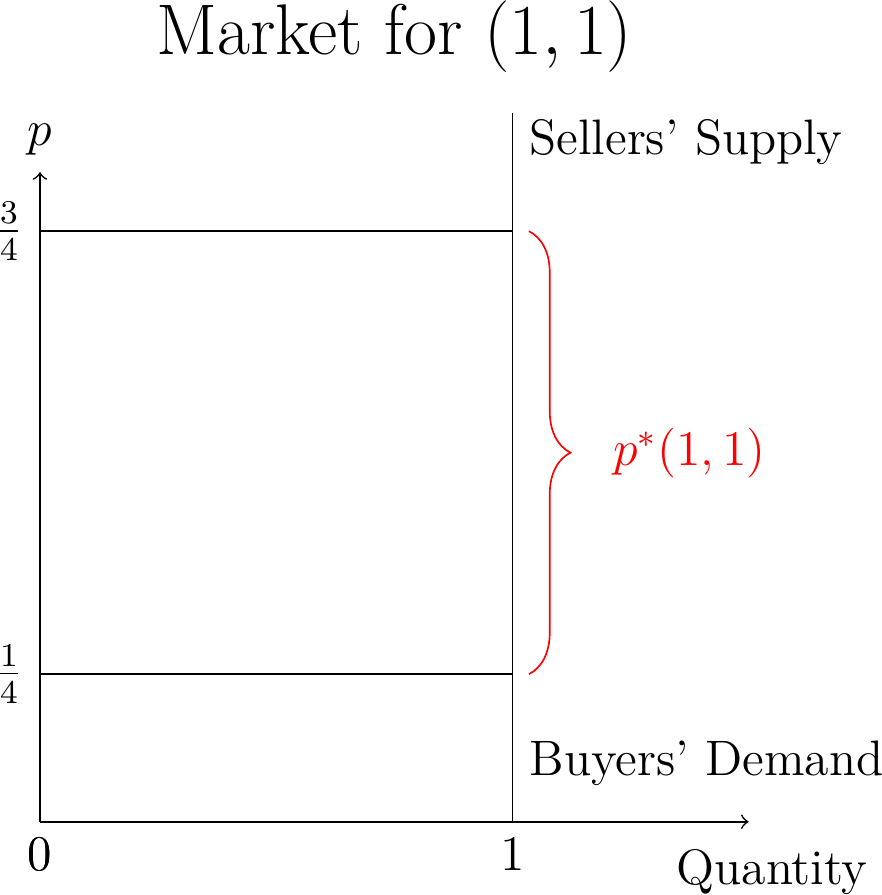
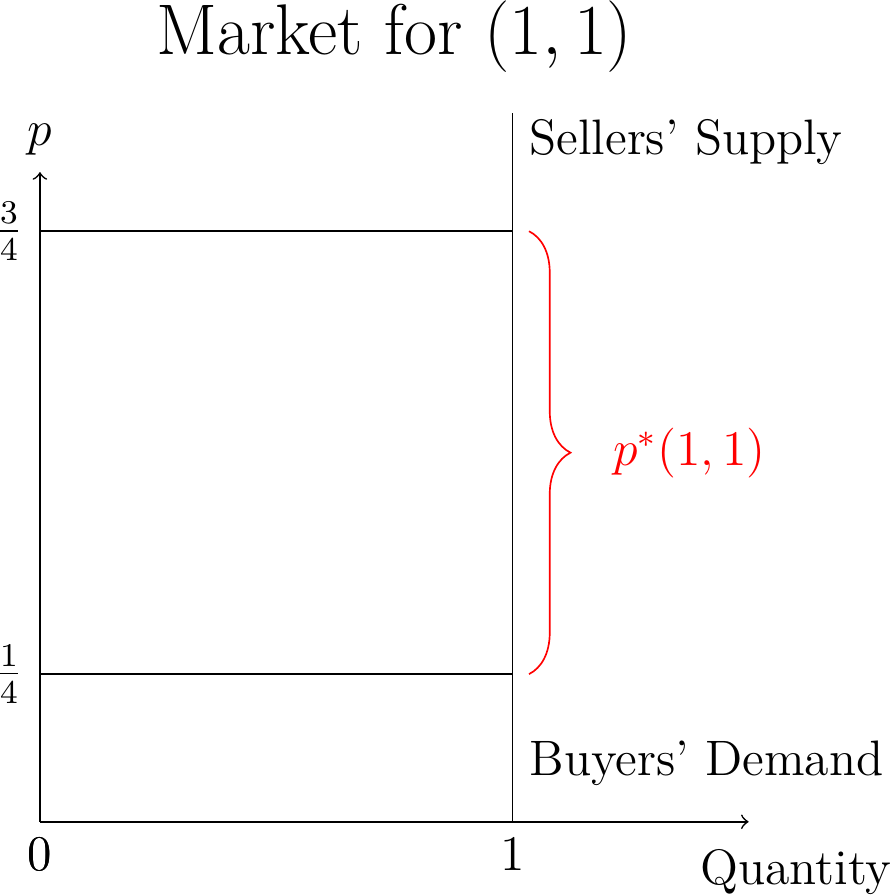
image adjust

diff --git a/docs/slides/tikz_charts/jmp.tex b/docs/slides/tikz_charts/jmp.tex
@@ -364,7 +364,7 @@ $ $
 	
 	\draw [->] (0,0) node [below] {0} -- (0,0) -- (6,0);
 	
-	\node [below] at (6.2,-.1) {Quantity};
+	\node [below] at (6.4,-.1) {Quantity};
 	
 	\draw [->] (0,0) node [below] {0} -- (0,0) -- (0,5.5) node [above] {$p$};
 	
@@ -385,7 +385,7 @@ $ $
 	
 	\draw [->] (0,0) node [below] {0} -- (0,0) -- (6,0);
 	
-	\node [below] at (6.2,-.1) {Quantity};
+	\node [below] at (6.4,-.1) {Quantity};
 	
 	\draw [->] (0,0) node [below] {0} -- (0,0) -- (0,5.5) node [above] {$p$};
 	
@@ -412,7 +412,7 @@ $ $
 	
 	\draw [->] (0,0) node [below] {0} -- (0,0) -- (6,0);
 
-	\node [below] at (6.2,-.1) {Quantity};
+	\node [below] at (6.4,-.1) {Quantity};
 	
 	\draw [->] (0,0) node [below] {0} -- (0,0) -- (0,5.5) node [above] {$p$};
 	
@@ -449,7 +449,7 @@ $ $
 	
 	\draw [->] (0,0) node [below] {0} -- (0,0) -- (6,0);
 
-	\node [below] at (6.2,-.1) {Quantity};
+	\node [below] at (6.4,-.1) {Quantity};
 	
 	\draw [->] (0,0) node [below] {0} -- (0,0) -- (0,5.5) node [above] {$p$};
 	
